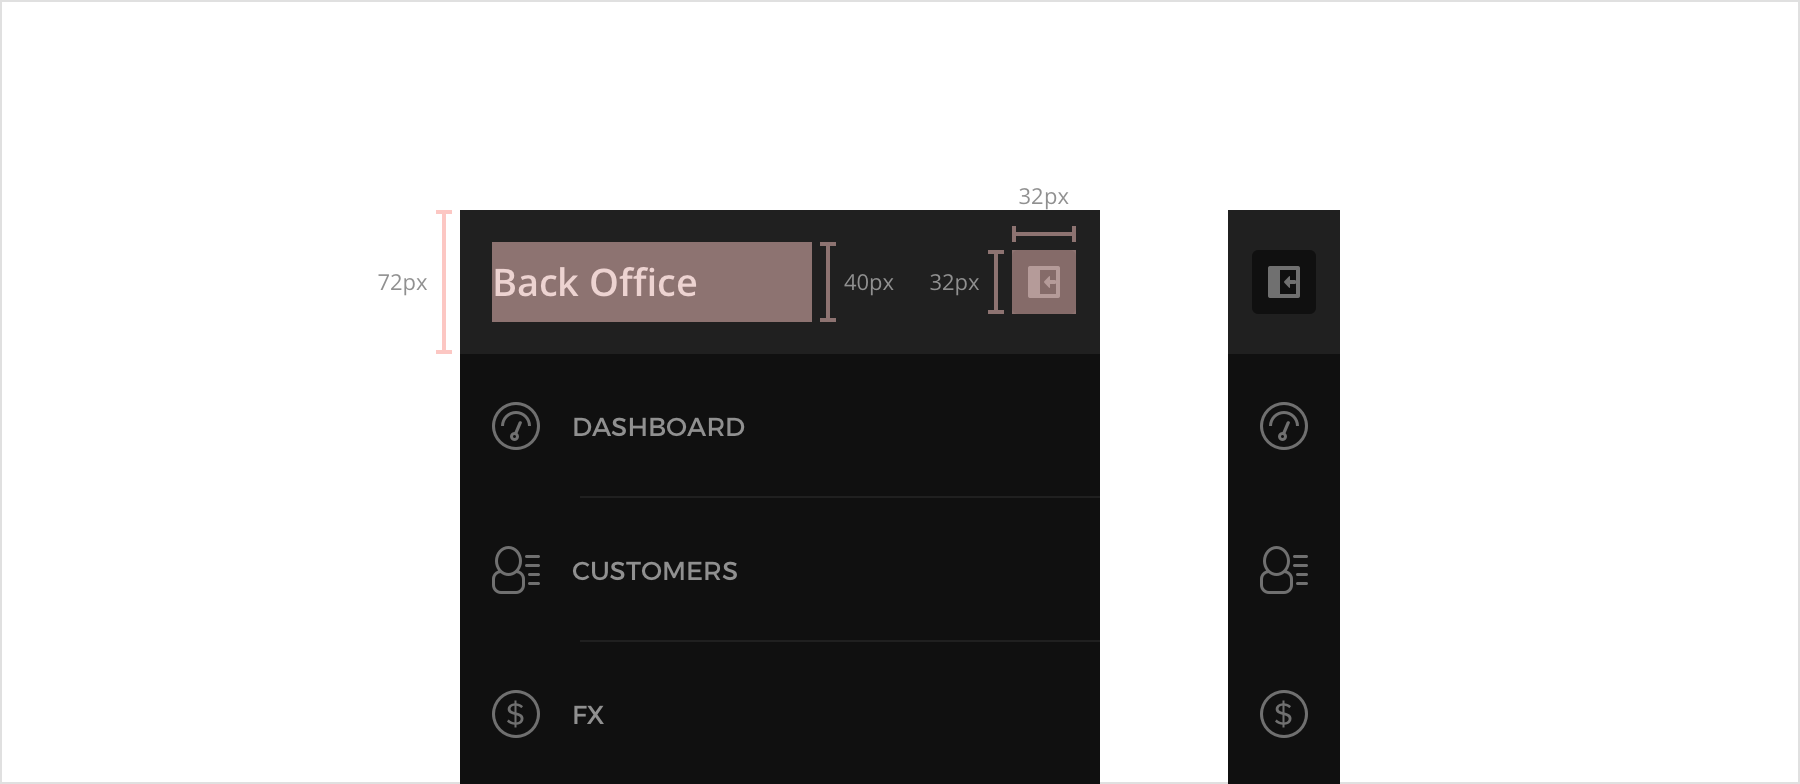
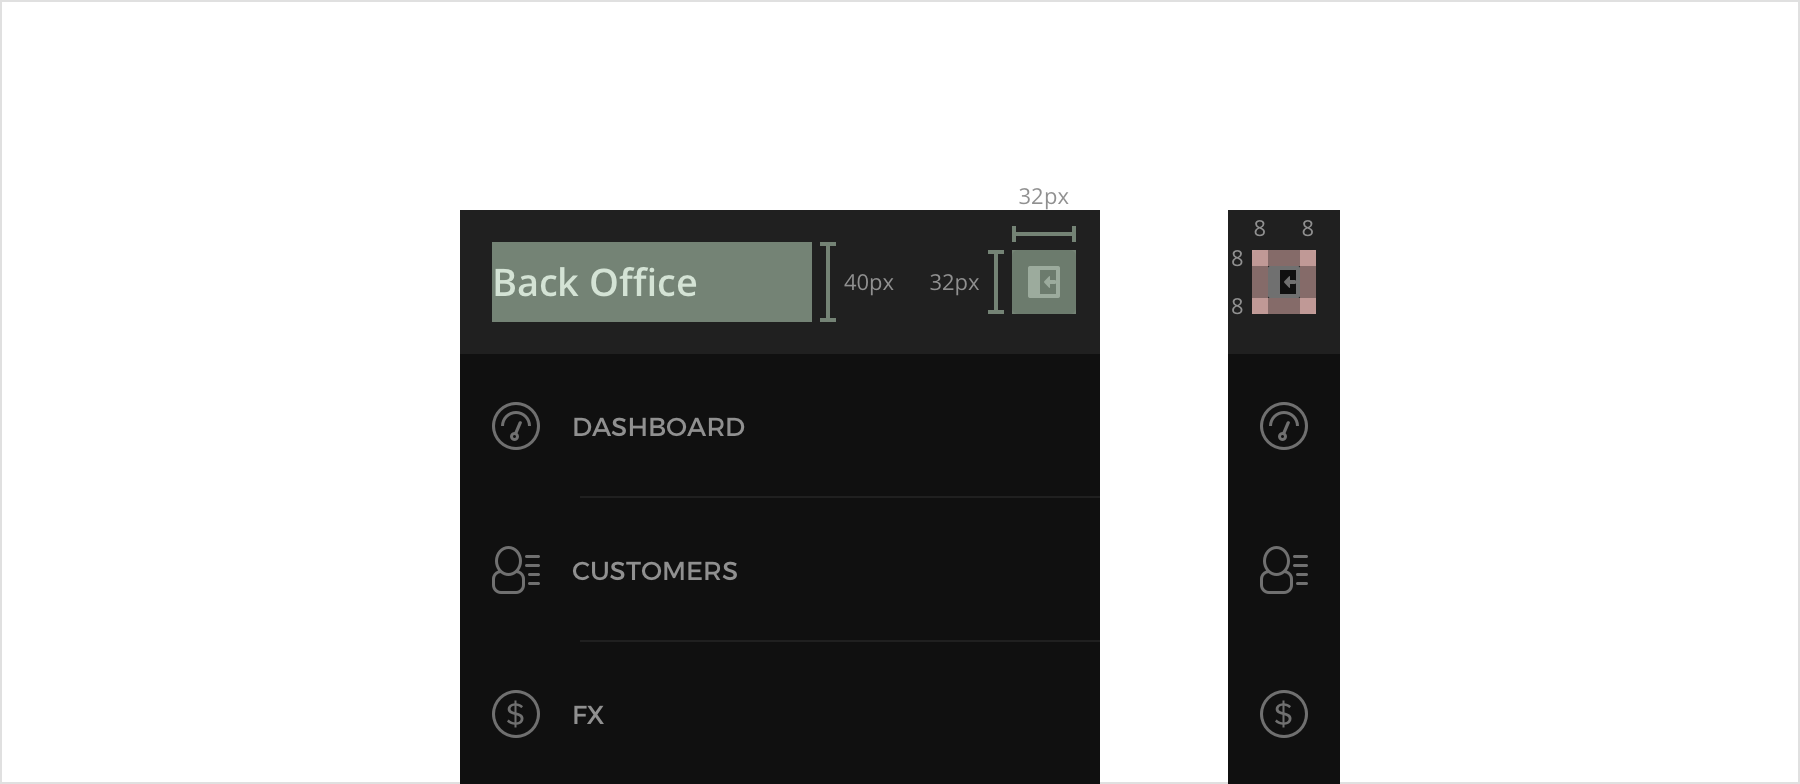
Updates sidebar.md
Auto commit by GitBook Editor

Changed region(s): [[0.2178, 0.3061, 0.4667, 0.4286], [0.56, 0.2755, 0.6222, 0.398], [0.6844, 0.3061, 0.7467, 0.398]]

diff --git a/sidebar.md b/sidebar.md
@@ -28,14 +28,34 @@ width: 56px;
 
 The header contains only the logo and the icon to minimize/maximize the sidebar.
 
+##### Spacing
+
 ![](/assets/organisms/sidebar-header-spacing.png)
 
 ```
 /* Header */
-padding: 0 12px 0 24px;
+padding: 0 12px 0 16px;
+height: 72px;
 
 /* Header minimized */
 padding: 0 12px 0 12px;
+height: 72px;
+```
+
+---
+
+##### Sizing
+
+![](/assets/organisms/sidebar-header-sizing.png)
+
+```
+/* Logo */
+max-height: 40px;
+
+/* Minimize/Maximize base */
+width: 32px;
+height: 32px;
+padding
 
 
 ```
